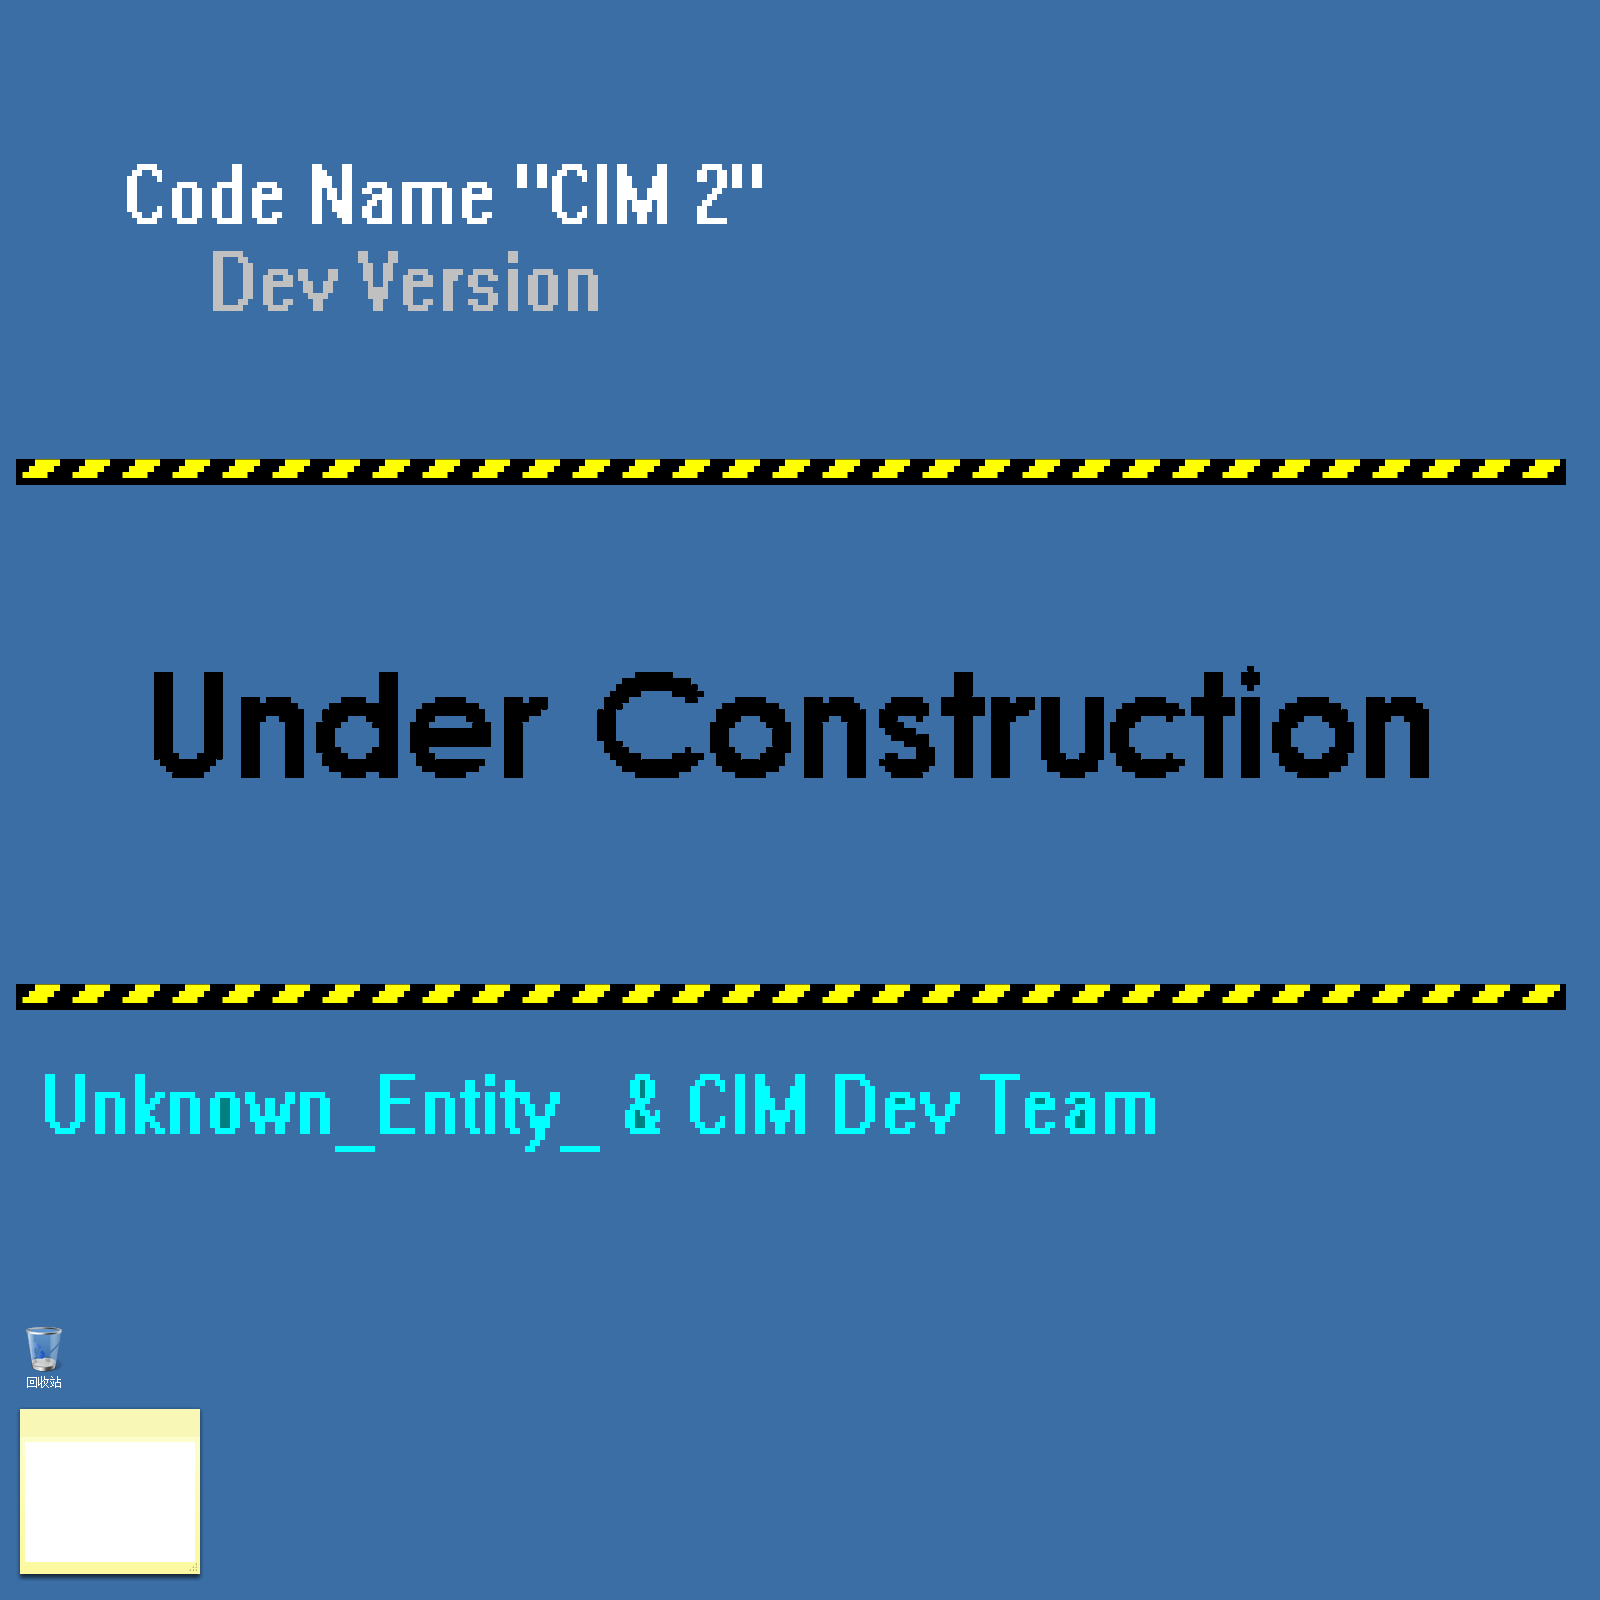
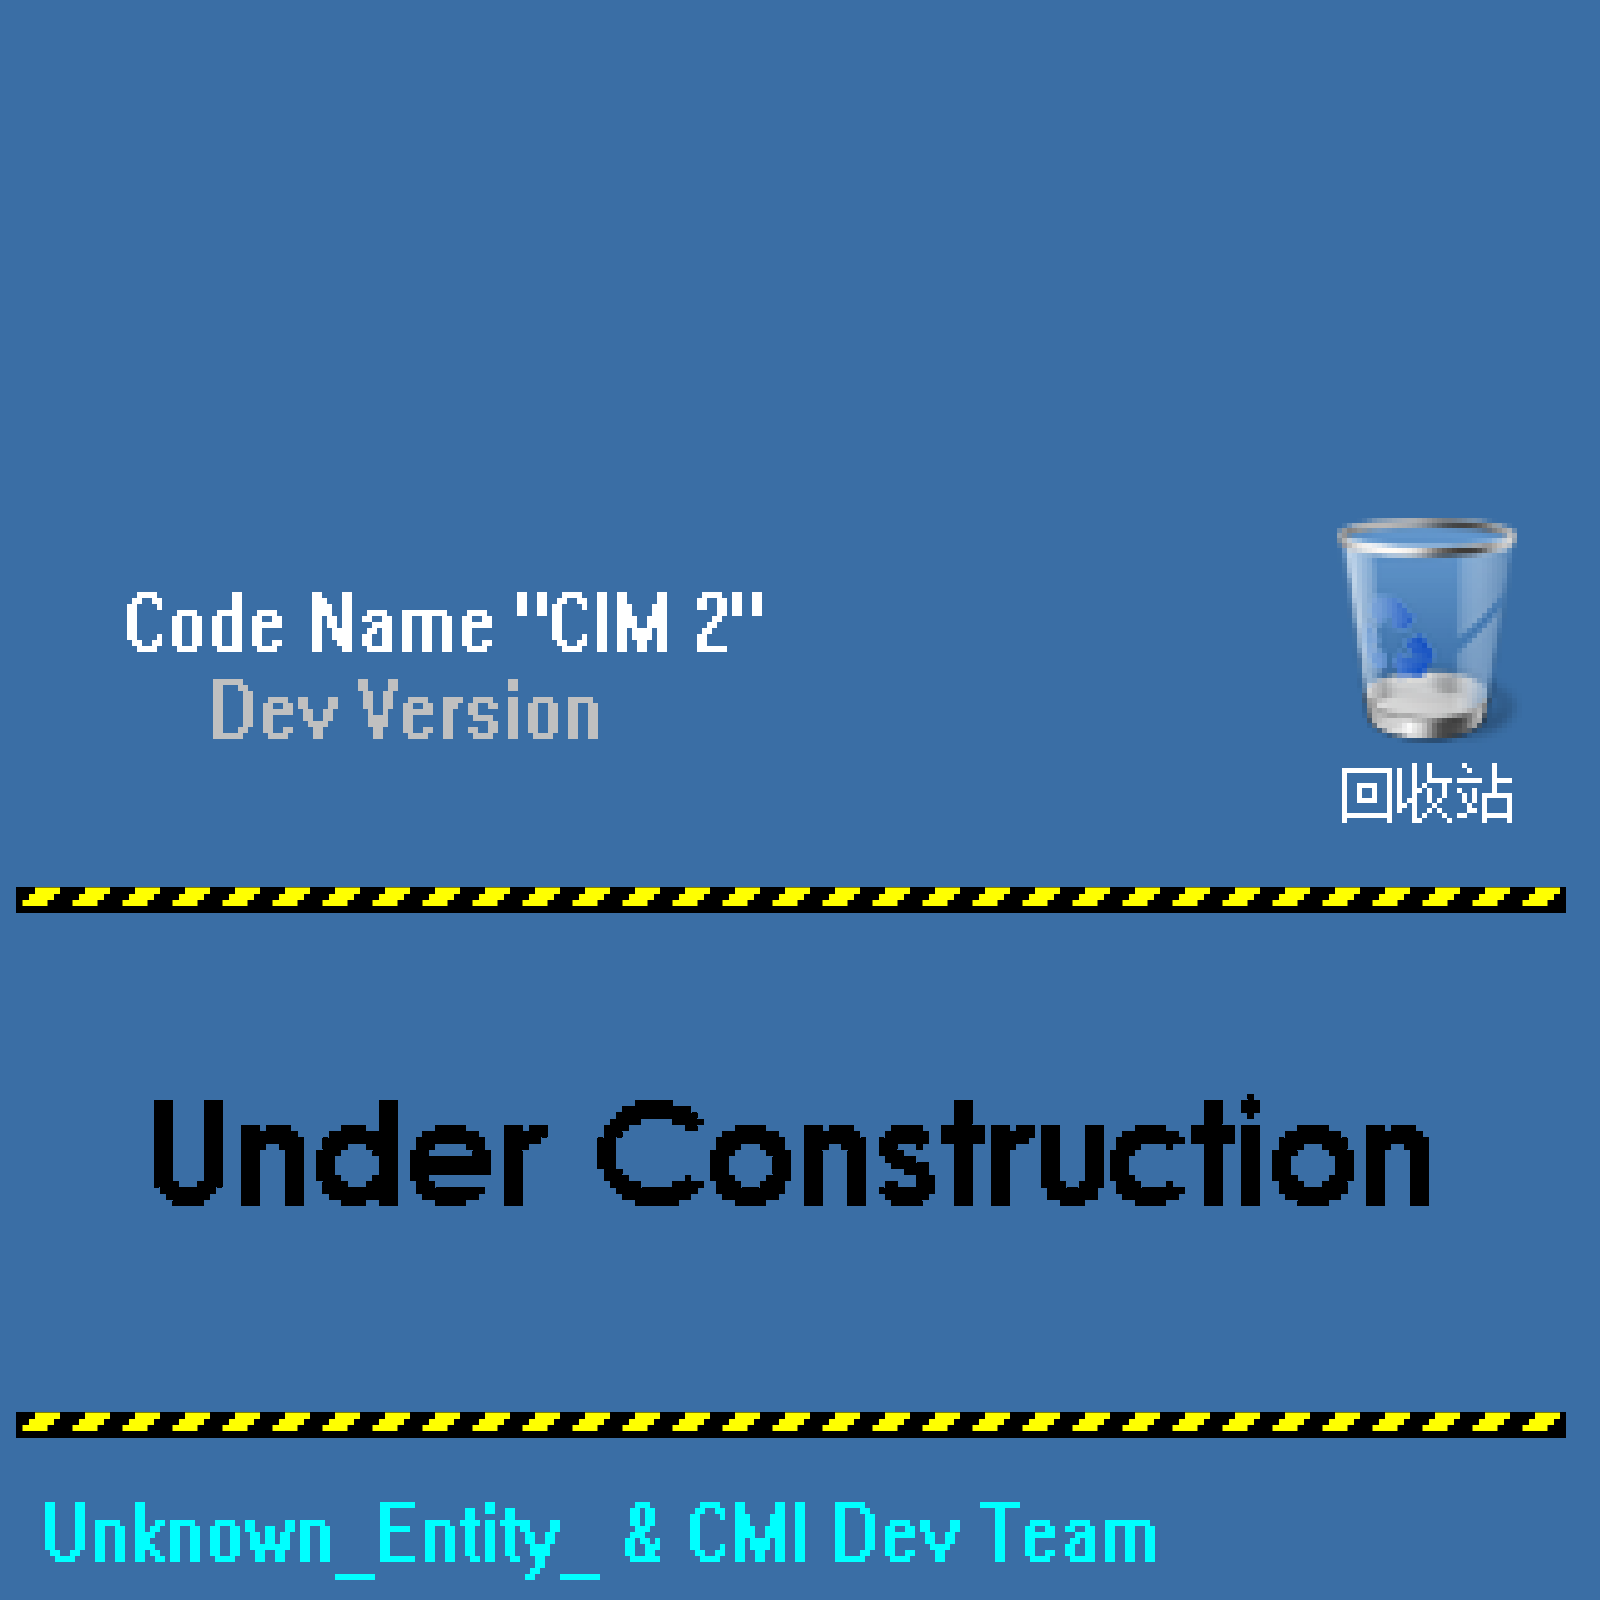
ponder block

diff --git a/kubejs/startup_scripts/register/block/Basic.js b/kubejs/startup_scripts/register/block/Basic.js
@@ -1,4 +1,100 @@
 StartupEvents.registry("block", (event) => {
 	event.create(`${global.namespace}:the_accelerator_of_mechanism_power`)
 		.soundType(SoundType.METAL)
-})
+
+		event.create(`${global.namespace}:ponder_thermal_input`)
+			.soundType(SoundType.METAL)
+
+			event.create(`${global.namespace}:ponder_thermal_output`)
+				.soundType(SoundType.METAL)
+
+				event.create(`${global.namespace}:ponder_thermal_output_on`)
+					.soundType(SoundType.METAL)
+
+					event.create(`${global.namespace}:ponder_thermal_input_on`)
+						.soundType(SoundType.METAL)
+
+				event.create(`${global.namespace}:ponder_thermal_fluid`)
+					.soundType(SoundType.METAL)
+
+				event.create(`${global.namespace}:ponder_thermal_fluid_blue`)
+					.soundType(SoundType.METAL)
+
+					event.create(`${global.namespace}:ponder_thermal_fluid_orange`)
+						.soundType(SoundType.METAL)
+						
+						event.create(`${global.namespace}:ponder_thermal_slot`)
+							.soundType(SoundType.METAL)
+							
+							event.create(`${global.namespace}:ponder_thermal_slot_blue`)
+								.soundType(SoundType.METAL)
+
+								event.create(`${global.namespace}:ponder_thermal_slot_orange`)
+									.soundType(SoundType.METAL)
+
+									event.create(`${global.namespace}:ponder_thermal_energy`)
+										.soundType(SoundType.METAL)
+
+										event.create(`${global.namespace}:ponder_thermal_gui`)
+											.soundType(SoundType.METAL)
+
+											event.create(`${global.namespace}:ponder_thermal_gui_blue`)
+												.soundType(SoundType.METAL)
+
+												event.create(`${global.namespace}:ponder_thermal_gui_green`)
+													.soundType(SoundType.METAL)
+
+													event.create(`${global.namespace}:ponder_thermal_gui_red`)
+														.soundType(SoundType.METAL)
+
+														event.create(`${global.namespace}:ponder_thermal_machine_front`)
+															.soundType(SoundType.METAL)
+
+															event.create(`${global.namespace}:ponder_thermal_machine_side`)
+																.soundType(SoundType.METAL)
+
+																event.create(`${global.namespace}:ponder_thermal_machine_side_blue`)
+																	.soundType(SoundType.METAL)
+
+																	event.create(`${global.namespace}:ponder_thermal_machine_side_orange`)
+																		.soundType(SoundType.METAL)
+
+																		event.create(`${global.namespace}:ponder_thermal_machine_side_mix`)
+																			.soundType(SoundType.METAL)
+
+																			event.create(`${global.namespace}:ponder_thermal_machine_side_disabled`)
+																				.soundType(SoundType.METAL)
+
+																				event.create(`${global.namespace}:ponder_thermal_machine_top`)
+																					.soundType(SoundType.METAL)
+
+																					event.create(`${global.namespace}:ponder_thermal_machine_bottom`)
+																						.soundType(SoundType.METAL)
+
+																						event.create(`${global.namespace}:ponder_thermal_rs1_off`)
+																							.soundType(SoundType.METAL)
+
+																							event.create(`${global.namespace}:ponder_thermal_rs2_off`)
+																								.soundType(SoundType.METAL)
+
+																								event.create(`${global.namespace}:ponder_thermal_rs3_off`)
+																									.soundType(SoundType.METAL)
+
+																									event.create(`${global.namespace}:ponder_thermal_rs1_on`)
+																										.soundType(SoundType.METAL)
+
+																										event.create(`${global.namespace}:ponder_thermal_rs2_on`)
+																											.soundType(SoundType.METAL)
+
+																											event.create(`${global.namespace}:ponder_thermal_rs3_on`)
+																												.soundType(SoundType.METAL)
+
+																												event.create(`${global.namespace}:ponder_thermal_lava`)
+																													.soundType(SoundType.METAL)
+
+																													event.create(`${global.namespace}:ponder_thermal_water`)
+																														.soundType(SoundType.METAL)
+
+																														event.create(`${global.namespace}:ponder_thermal_arrow`)
+																															.soundType(SoundType.METAL)
+	})
